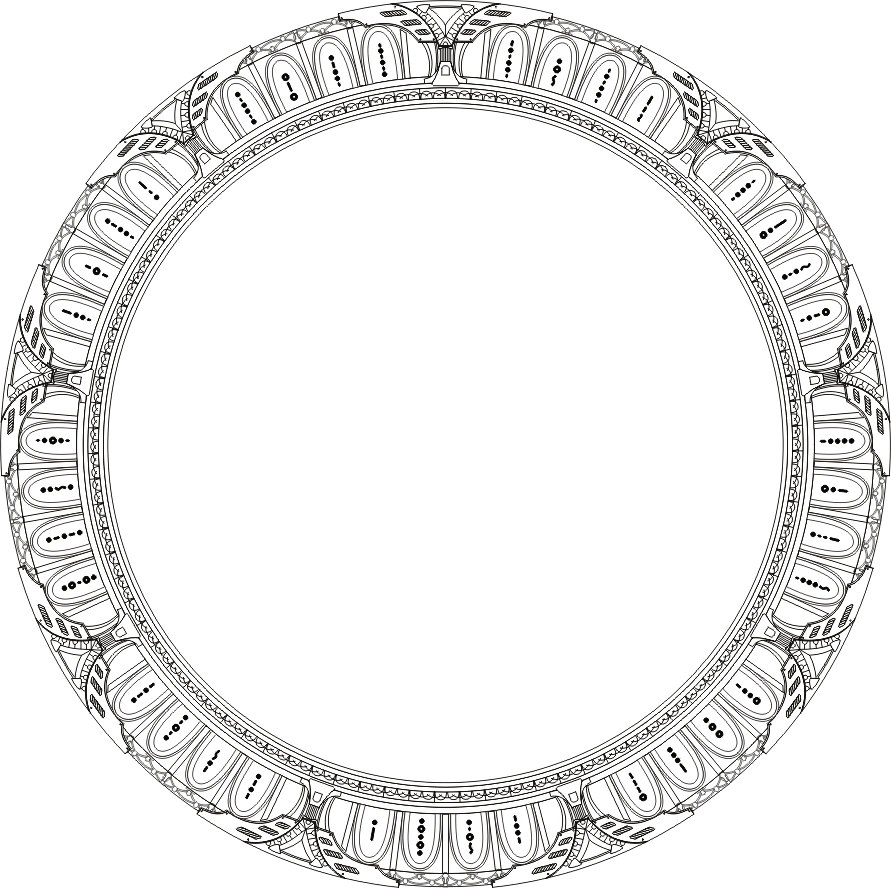
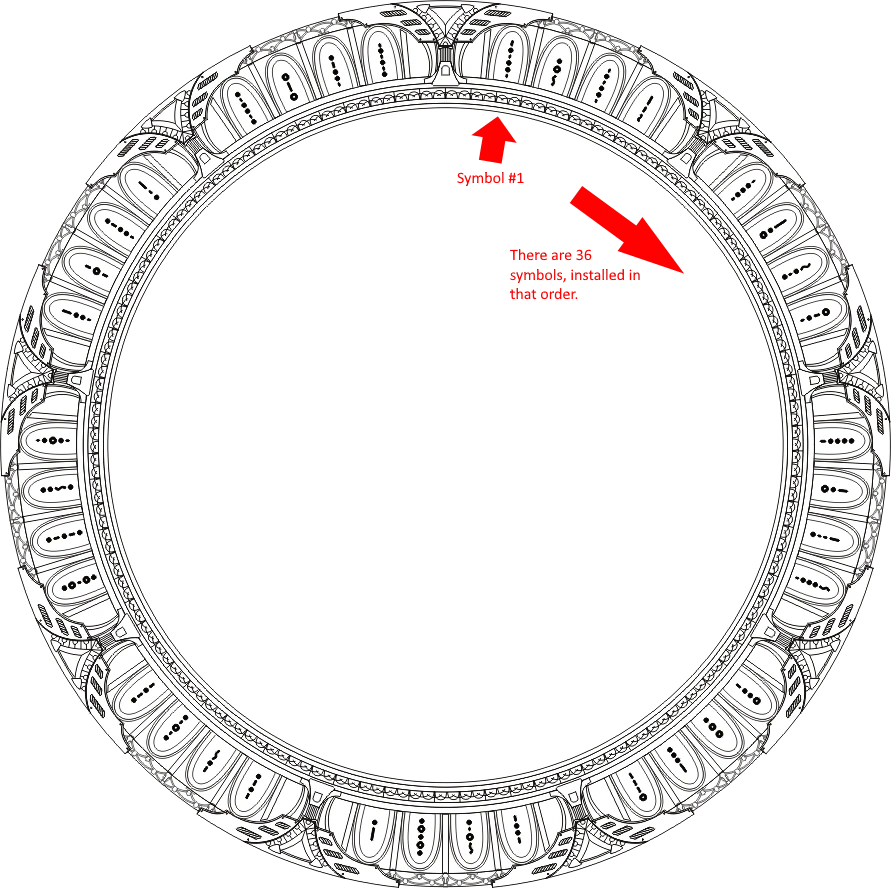
Spelling mistake + indication of the rotation

Changed region(s): [[0.5758, 0.2128, 0.7576, 0.3345], [0.5152, 0.1216, 0.5758, 0.2128]]

diff --git a/Build-Instructions/Build-Manual-0.md b/Build-Instructions/Build-Manual-0.md
@@ -65,6 +65,6 @@ Basically color is up to you, but you will probably needs at least 3 colors.
 | Color | Used for | Description
 |---|---|---|
 | Dark gray or black PLA | Ring | The ring in the serie is almost black if not black. The one I made was gray but not dark enough, if I could do it again I would likely make it black |
-| Transparent PLA | Ring | Used for chevron illumination and light diffusion. It may be possible to use white instead but I suggest you to test it before commiting youtself.
+| Transparent PLA | Ring | Used for chevron illumination and light diffusion. It may be possible to use white instead but I suggest you to test it before commiting yourself.
 | White PLA | Ring/Base | Used for reflector but can be used for any parts that is not visible. (example, bearing module, inner ring, alignment block etc ...)
 | Sand PLA | Base | Sand like color, yes I realise there are many possible color for sand so let's say the same color as egypt pyramid?
